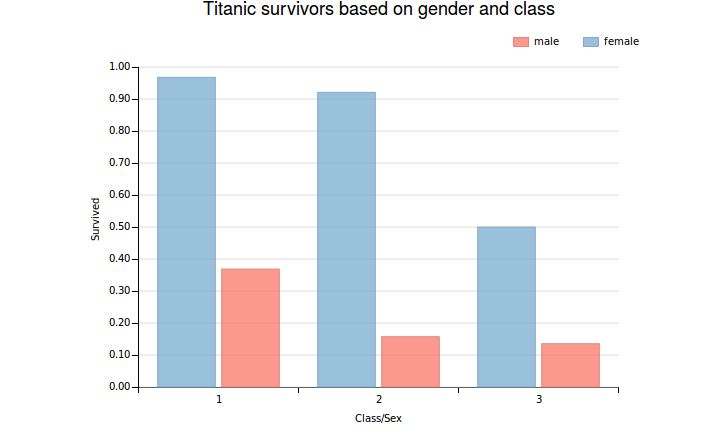
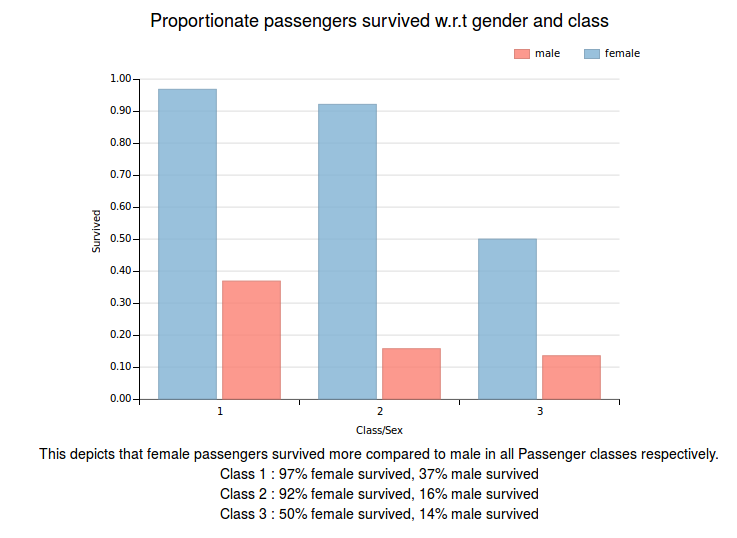
Changed specifications required

Changed region(s): [[0.0307, 0.1193, 0.9819, 0.9839], [0.1841, 0.0, 0.8898, 0.1193]]

diff --git a/p6/index_fin.html b/p6/index_fin.html
@@ -5,7 +5,7 @@
     <title>Titanic Data Exploration</title>
     <link href="http://maxcdn.bootstrapcdn.com/bootstrap/3.3.2/css/bootstrap.min.css" rel="stylesheet"/>
     <style>
-      h2,h4,#chart1,#chart2,#chart3{
+      h2,h4,#chart1,#chart2,#chart3,p{
         color: black;
         text-align: center;
       }
@@ -17,14 +17,29 @@
     <script src="http://dimplejs.org/dist/dimple.v1.1.2.min.js"></script>
 	<div class="row">
 		<div id="chart1"></div>
+		<p> This depicts that passengers with high classes survived more compared to lower ones.
+			<br/>
+			Class 1 : 136 survived from 216 (63%)<br/>
+			Class 2 : 87 survived from 184 (47%)<br/>
+			Class 3 : 119 survived from 491 (24%)
+		</p>
 	</div>
 
 	<div class="row">
 		<div id="chart2"></div>
+		<p> This depicts that female passengers survived more compared to male in all Passenger classes respectively.  
+			<br/>
+			Class 1 : 97% female survived, 37% male survived<br/>
+			Class 2 : 92% female survived, 16% male survived<br/>
+			Class 3 : 50% female survived, 14% male survived
+		</p>
 	</div>
 
 	<div class="row">
 		<div id="chart3"></div>
+		<p> This depicts that mostly all of the 0-15 age group were saved in Class 1 and Class 2 but in Class 3 43% of it is saved.<br/>
+		Although in Class 3 also mostly 0-15 age group is survived this shows very less survival in Class 3.
+		</p>
 	</div>
 
 	<script type="text/javascript">
@@ -33,7 +48,7 @@
 
 		// 1 - Titanic survivors based on Passenger's class	
 		    
-		    d3.select("#chart1").append("h4").text("Titanic survivors based on Passenger's class");
+		    d3.select("#chart1").html("<br/><br/>").append("h4").text("Proportionate passengers survived w.r.t Passenger's class");
 		    var svg1 = dimple.newSvg("#chart1", width, height);
 		    d3.csv("data/data.csv", function(data){
 				var chart = new dimple.chart(svg1, data);
@@ -41,15 +56,15 @@
 			    x.addOrderRule("Class", false);
 			    y=chart.addMeasureAxis("y", "Survived");
 			    y.tickFormat = ',.2f';
-			    var mySeries=chart.addSeries("Class", dimple.plot.bar);
+			    y.overrideMax = 1.0;
+			    var mySeries=chart.addSeries(null, dimple.plot.bar);
 			    mySeries.aggregate = dimple.aggregateMethod.avg;
-				var legend=chart.addLegend(65, 10, 510, 20, "right");
 				chart.draw();
 		  	});
 
 		// 2 - Titanic survivors based on gender and class
 
-		    d3.select("#chart2").append("h4").text("Titanic survivors based on gender and class");
+		    d3.select("#chart2").html("<br/><br/>").append("h4").text("Proportionate passengers survived w.r.t gender and class");
 		    var svg2 = dimple.newSvg("#chart2", width, height);
 		    d3.csv("data/data.csv", function(data){
 				var chart = new dimple.chart(svg2, data);
@@ -65,7 +80,7 @@
 
 		// 3 - Titanic survivors based on age group and class
 
-		    d3.select("#chart3").append("h4").text("Titanic survivors based on age group and class");
+		    d3.select("#chart3").html("<br/><br/>").append("h4").text("Proportionate passengers survived w.r.t age group and class");
 		    var svg3 = dimple.newSvg("#chart3", width, height);
 		    d3.csv("data/data.csv", function(data){
 				var chart = new dimple.chart(svg3, data);

diff --git a/p6/README.md b/p6/README.md
@@ -20,7 +20,12 @@ Since I have comparative data that I would like to represent through a chart the
 Pre- Feedback i.e initial visualisations:
 
 ![First Chart](data/init1.png)
+
+This visualisation depicts that in all type of passenger classes female gender survived more than males, in Class1 and Class 2 more than 90% of females were survived.
+
 ![Second Chart](data/init2.png)
+
+This visualisation depicts that in mostly young age group survived and children b/w 0-15 were saved first.
 
 ### Feedback
 
